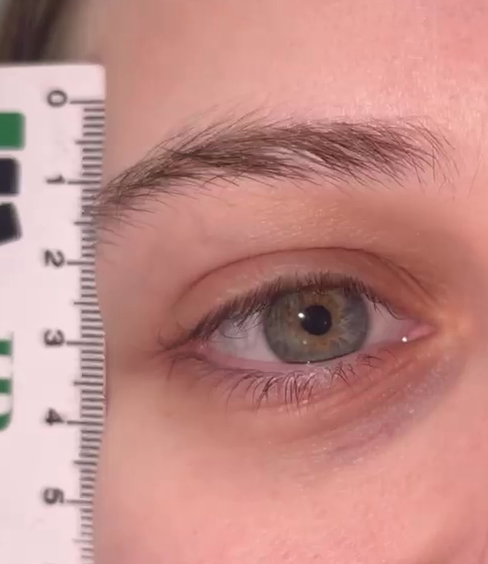
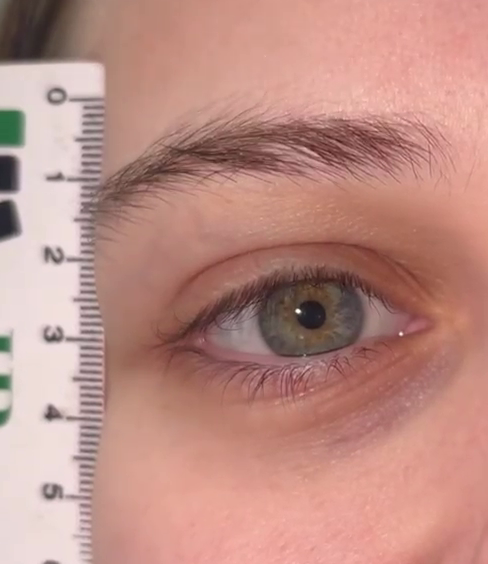
cambiamos roi a uno mejor

diff --git a/src/main.py b/src/main.py
@@ -23,8 +23,13 @@ if not video.isOpened():
 # Obtener la cantidad de frames
 total_frames = int(video.get(cv2.CAP_PROP_FRAME_COUNT))
 
-# Seleccionar el frame de la mitad del video
-frame_num = total_frames // 2
+
+# Seleccionar un frame en un instante determinado
+segundo = 6
+
+fps = video.get(cv2.CAP_PROP_FPS)
+frame_num = int(segundo * fps)
+
 video.set(cv2.CAP_PROP_POS_FRAMES, frame_num)
 
 # Extraer el frame
@@ -370,3 +375,5 @@ for i in range(4):
 
 plt.tight_layout()
 plt.show()
+
+#

diff --git a/obserevaciones.md b/obserevaciones.md
@@ -37,8 +37,7 @@ Se aplicaron dos métodos de ecualización sobre la ROI en escala de grises:
 
 En esta ROI, **CLAHE presenta el resultado visual más equilibrado**, ya que mejora el contraste local sin generar cambios tan bruscos de intensidad. Sin embargo, la imagen sigue presentando reflejos luminosos y cierta falta de definición.
 
-Los reflejos luminosos sobre la pupila ya estaban presentes en la imagen original, por lo que no fueron introducidos por estos métodos.
-
+Con respecto al ruido, no se observa un ruido muy marcado, aunque la imagen tiene poca resolución y algunos reflejos luminosos. Eso no significa que no tenga ruido, sino que no podemos distinguirlo claramente a simple vista.
 #### 1.2.4 Ruido y filtrado espacial
 
 **Observaciones:** Pendiente.
